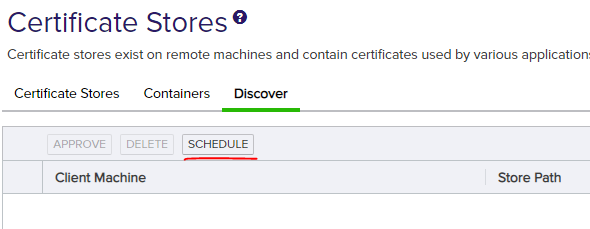
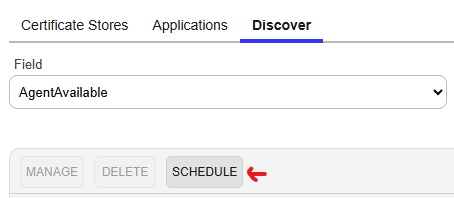
removed unused images; updated screenshots to latest UI, fixed broken links

Changed region(s): [[0.0, 0.0303, 1.0, 1.0], [0.5551, 0.0909, 0.6784, 0.1515]]

diff --git a/docsource/content.md b/docsource/content.md
@@ -27,7 +27,7 @@ The high level steps required to configure the Azure Keyvault Orchestrator exten
 
 1) [Install the Extension on the Orchestrator](#installation)
 
-1) [Create the Certificate Store](#add-a-new-or-existing-azure-keyvault-certificate-store)
+1) [Create the Certificate Store](#add-an-existing-azure-keyvault-certificate-store)
 
 > :warning: If you are still using the (deprecated) Windows Orchestrator, you can find instructions for migrating by searching previous versions of this README.
 
@@ -40,7 +40,7 @@ authenticate with a identity that has sufficient permissions to perform the jobs
 Based Access Control (RBAC) and the classic Access Policy method. RBAC is the preferred method, and currently the default used by Azure.
 It allows the assignment of granular level, inheretable access control on both the contents of the KeyVaults, as well as higher-level
 management operations. For more information and a comparison of the two access control strategies, refer
-to [this article](learn.microsoft.com/en-us/azure/key-vault/general/rbac-access-policy).
+to [this article](https://learn.microsoft.com/en-us/azure/key-vault/general/rbac-access-policy).
 
 ##### RBAC vs Access Policies
 
@@ -83,8 +83,9 @@ The Azure KeyVault orchestrator plugin supports several authentication options:
 
 Steps for setting up each option are detailed below.
 
-<details>
-  <summary><b>Authentication via Service Principal</b></summary>
+#### Authentication via Service Principal
+
+<details><summary>Click to expand</summary>
 
 For the Orchestrator to be able to interact with the instance of Azure Keyvault, we will need to create an entity in
 Azure that will encapsulate the permissions we would like to grant it. In Azure, these intermediate entities are
@@ -126,8 +127,11 @@ We will store these values securely in Keyfactor in subsequent steps.
 
 </details>
 
-<details>
-  <summary><b>Authentication via User Assigned Managed Identity</b></summary>
+#### Authentication via User Assigned Managed Identity
+
+<details><summary>Click to expand</summary>
+
+
 
 Authentication has been somewhat simplified with the introduction of Azure Managed Identities. If the orchestrator is
 running on an Azure Virtual Machine, Managed identities allow an Azure administrator to
@@ -152,8 +156,9 @@ Id field on the certificate store definition (the Client Secret can be left blan
 
 </details>
 
-<details>
-<summary><b>Authentication via System Assigned Managed Identity</b></summary>
+#### Authentication via System Assigned Managed Identity
+
+<details><summary>Click to expand</summary>
 
 In order to use a _System_ assigned managed identity, there is no need to enter the server credentials. If no server
 credentials are provided, the extension assumes authentication is via system assigned managed identity.
@@ -238,22 +243,19 @@ Follow these steps to store the values:
 
    ![Discovery Form](/Images/discovery-form-client-machine.png)
 
-1) Click "Change Credentials" to open up the Server Credentials form.
-
-   ![Change Credentials](/Images/change-credentials-form.png)
-
-1) Click "UPDATE SERVER USERNAME" and Enter the appropriate values based on the authentication type.
+1) Click "SET SERVER USERNAME" and Enter the appropriate values based on the authentication type.
 
    ![Set Username](/Images/server-creds-username.png)
 
 1) Enter again to confirm, and click save.
 
-1) Click "UPDATE SERVER PASSWORD" and update with the appropriate value (`<client secret>` or `managed`) following the
+1) Click "SET SERVER PASSWORD" and update with the appropriate value (`<client secret>` or `managed`) following the
    same steps as above.
+   ![Set Password](/Images/server-creds-password.png)
 
 1) Select a time to run the discovery job.
 
-1) Enter commma seperated list of tenant ID's in the "Directories to search" field.'
+1) Enter comma separated list of tenant ID's in the "Directories to search" field.'
 
 > :warning:
 > If nothing is entered here, the default Tenant ID included with the credentials will be used. For system managed
@@ -263,7 +265,7 @@ Follow these steps to store the values:
 
 ##### Approve the Certificate Store
 
-When the Discovery job runs successfully, it will list the existing Azure Keyvaults that are acessible by our service
+When the Discovery job runs successfully, it will list the existing Azure Keyvaults that are accessible by our service
 principal.
 
 In this example, our job returned these Azure Keyvaults.

diff --git a/rbac.md b/rbac.md
@@ -2,7 +2,7 @@
 ### Configure Role Based Access Control (RBAC)
 
 In order to illustrate the minimum permissions that the authenticating entity (service principal or managed identity)
-requires we have created 3 seperate custom role definitions that you can use as a reference when creating an RBAC role definition
+requires we have created 3 separate custom role definitions that you can use as a reference when creating an RBAC role definition
 in your Azure environment.
 
 The reason for 3 definitions is that certain orchestrator jobs, such as Create (new KeyVault) or Discovery require more
@@ -101,7 +101,7 @@ If you are working with a smaller number of KeyVaults and/or do not plan on util
 KeyVaults across your subscriptions, the permissions defined in this role are not necessary.
 
 - built-in
-  role: ["Key Vault Reader"](github.com/MicrosoftDocs/azure-docs/blob/main/articles/role-based-access-control/built-in-roles/security.md#key-vault-reader)
+  role: ["Key Vault Reader"](https://github.com/MicrosoftDocs/azure-docs/blob/main/articles/role-based-access-control/built-in-roles/security.md#key-vault-reader)
 - lowest level scope - a resource group
 - custom role definition:
 
@@ -146,7 +146,7 @@ This set of permissions is the minimum required to support the basic operations 
 Add/Removal of certificates.
 
 - built-in
-  role: ["Key Vault Certificates Officer"](github.com/MicrosoftDocs/azure-docs/blob/main/articles/role-based-access-control/built-in-roles/security.md#key-vault-certificates-officer)
+  role: ["Key Vault Certificates Officer"](https://github.com/MicrosoftDocs/azure-docs/blob/main/articles/role-based-access-control/built-in-roles/security.md#key-vault-certificates-officer)
 - lowest level scope - an individual keyvault
 - custom role definition:
 
@@ -200,9 +200,9 @@ the authenticating identity, it will be able to discover existing KeyVaults, Cre
 well as adding and removing certificates within the KeyVault.
 
 - minimally sufficient built-in roles (all are required):
-    - ["Key Vault Certificates Officer"](github.com/MicrosoftDocs/azure-docs/blob/main/articles/role-based-access-control/built-in-roles/security.md#key-vault-certificates-officer)
-    - ["Key Vault Contributor"](learn.microsoft.com/en-us/azure/role-based-access-control/built-in-roles/security#key-vault-contributor)
-    - ["Key Vault Access Administrator"](learn.microsoft.com/en-us/azure/role-based-access-control/built-in-roles/)
+    - ["Key Vault Certificates Officer"](https://github.com/MicrosoftDocs/azure-docs/blob/main/articles/role-based-access-control/built-in-roles/security.md#key-vault-certificates-officer)
+    - ["Key Vault Contributor"](https://learn.microsoft.com/en-us/azure/role-based-access-control/built-in-roles/security#key-vault-contributor)
+    - ["Key Vault Access Administrator"](https://learn.microsoft.com/en-us/azure/role-based-access-control/built-in-roles/)
 - lowest level scope - an individual resource group
 - custom role definition:
 
@@ -231,7 +231,7 @@ well as adding and removing certificates within the KeyVault.
                     "Microsoft.Management/managementGroups/read",
                     "Microsoft.Resources/subscriptions/read",
                     "Microsoft.Authorization/roleAssignments/*",                     
-                    "Microsoft.KeyVault/operations/read"                                
+                    "Microsoft.KeyVault/operations/read",
                     "Microsoft.KeyVault/locations/*/read",
                     "Microsoft.KeyVault/vaults/*/read",
                 ],
@@ -252,7 +252,7 @@ well as adding and removing certificates within the KeyVault.
 ```
 </details>
 
-> :warning: You still may decide to split the capabilities into seperate roles in order to apply each of them to the
+> :warning: You still may decide to split the capabilities into separate roles in order to apply each of them to the
 > lowest level scope
 > required. We have tried to provide you with an absolute minimum set of required permissions necessary to perform each
 > operation. Refer to

diff --git a/create_sp_azure.md b/create_sp_azure.md
@@ -53,7 +53,7 @@ Here are the steps for assigning this role.
    ![Select Principal](/Images/rg-role-select-principal.PNG)
 1) Click "Review and Assign" and save the role assignment.
 
-[^1]: If discovery and create store functionality are not neeeded, it is also possible to manage individual certificate
+[^1]: If discovery and create store functionality are not needed, it is also possible to manage individual certificate
 stores without the need to provide resource group level authority. The steps to do assign permissions for an individual
 Azure Keyvault are described [here](#assign-permissions-for-an-individual-key-vault-via-access-policy) for vaults using
 Access Policy based permissions and [here](#assign-permissions-for-an-individual-key-vault-via-rbac) for Individual Key
@@ -146,6 +146,6 @@ For authenticating to Azure via App Registration/Service Principal, we will need
 1) Click "Add".
 1) Copy the "Value" of the secret before navigating away.
 
-[Back to README](README.md#create-a-service-principal)
+[Back to README](README.md#authentication-via-service-principal)
  
 
